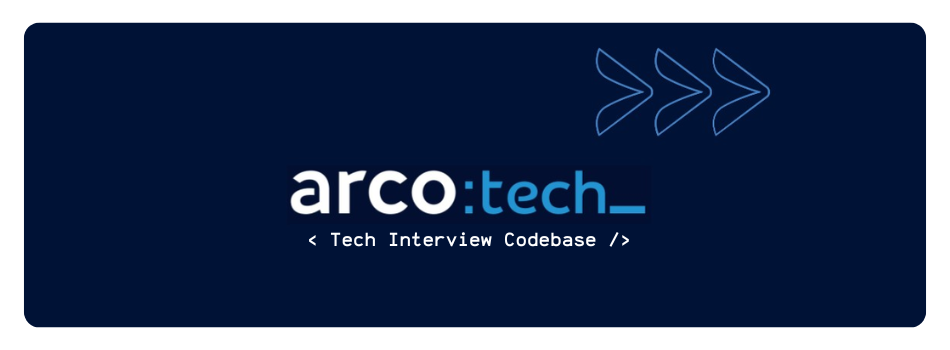
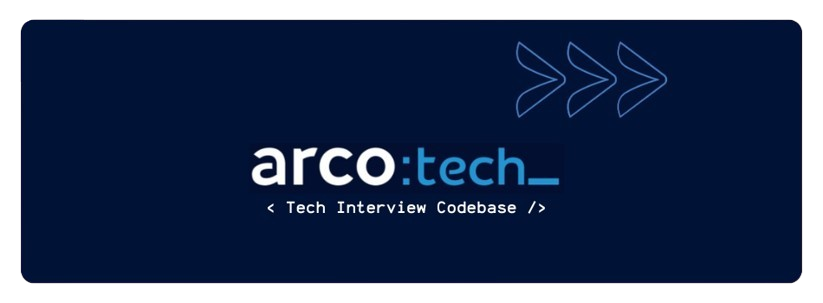
style: Add margin to README header image

diff --git a/README.md b/README.md
@@ -1,4 +1,4 @@
-<div align="center">
+<div align="center" style="margin-bottom: 20px;">
   <img width="100%" src="https://i.ibb.co/v6Wk7C8X/tech-interview-arcotech.png" alt="tech-interview-arcotech" border="0">
 </div>
 
